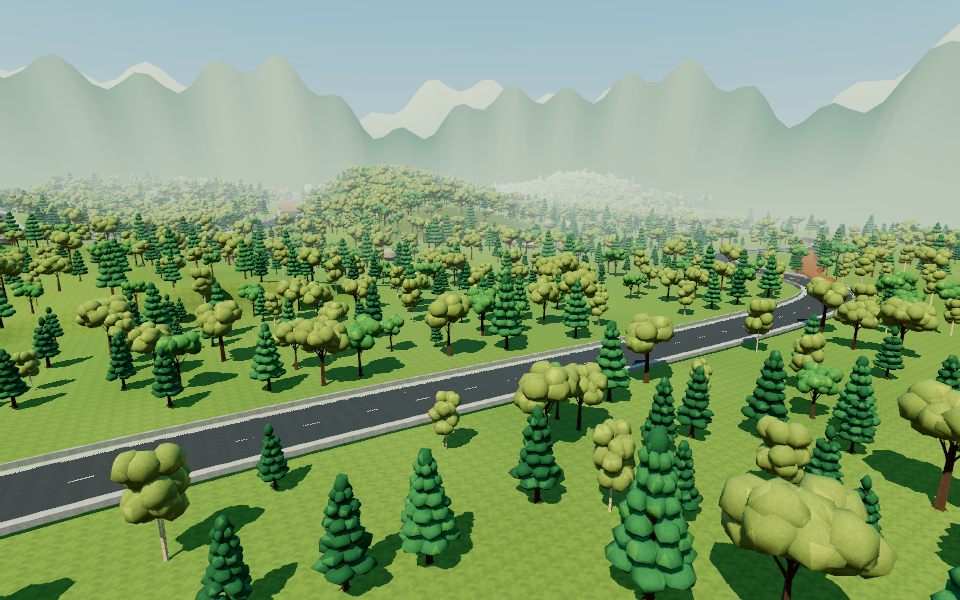
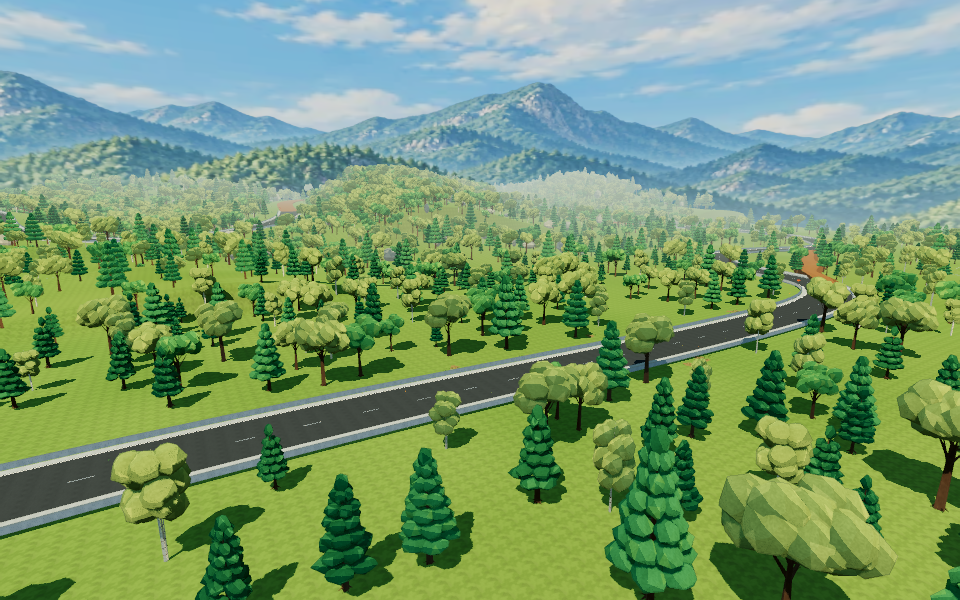
Add seamless painted forest horizon and map-specific anime shading

diff --git a/src/content/tracks/biggas-forest/biggas-city-horizon.js b/src/content/tracks/biggas-forest/biggas-city-horizon.js
@@ -1,33 +1,32 @@
 import * as T from 'three';
-import {mergeGeometries} from 'three/addons/utils/BufferGeometryUtils.js';
+import {MeshBasicNodeMaterial} from 'three/webgpu';
+import {uniform,texture,uv,vec2,vec3,mix,smoothstep} from 'three/tsl';
 
-// Two closed, static ridgelines. Baked vertex shading keeps the distant terrain
-// independent of city lights and shadow maps: one draw, no textures or updates.
+// One open cylinder replaces both modelled mountain rings. Mirrored sampling
+// makes u=0/1 AND the opposite join identical in colour and skyline alpha.
+// It follows the sky root: distant mountains have no racing-speed parallax.
 export function createBiggasHorizon(root,{mobile=false}={}){
-  const segments=mobile?128:256,parts=[],sun=new T.Vector3(-.55,.8,.35).normalize();
-  const haze=new T.Color(0xb6c6bd),stone=new T.Color(),normal=new T.Vector3();
-  for(let layer=0;layer<2;layer++){
-    const positions=[],indices=[],profiles=layer?[[1900,-90],[2350,110],[2750,1],[3150,160],[3500,-150]]:[[1050,-100],[1280,65],[1630,1],[1950,80],[2220,-120]];
-    for(let row=0;row<profiles.length;row++)for(let i=0;i<=segments;i++){
-      const a=i/segments*Math.PI*2,phase=layer*1.7;
-      const ridge=260+150*(.5+.5*Math.sin(a*7+phase))+115*(.5+.5*Math.sin(a*13+1.3+phase))+75*Math.sin(a*23+phase)**2;
-      const radius=profiles[row][0]+Math.sin(a*5+phase)*65+Math.sin(a*11)*28;
-      const y=row===2?ridge*(layer?1.4:1):profiles[row][1]+(row===1||row===3?Math.sin(a*9+phase)*28:0);
-      positions.push(Math.cos(a)*radius,y,Math.sin(a)*radius);
-      if(row&&i){const b=row*(segments+1)+i,p=b-segments-1;indices.push(p-1,p,b-1,p,b,b-1);}
-    }
-    const g=new T.BufferGeometry();g.setAttribute('position',new T.Float32BufferAttribute(positions,3));g.setIndex(indices);g.computeVertexNormals();
-    const colors=[],p=g.attributes.position,n=g.attributes.normal;
-    for(let i=0;i<p.count;i++){
-      const height=p.getY(i),shade=.75+.25*Math.max(0,normal.fromBufferAttribute(n,i).dot(sun));
-      stone.set(layer?0x8babb5:0x688b86).lerp(new T.Color(layer?0xc0d0d0:0xa1b5ad),T.MathUtils.smoothstep(height,300,650)).multiplyScalar(shade);
-      stone.lerp(haze,layer?.48:T.MathUtils.lerp(.72,.2,T.MathUtils.smoothstep(height,-50,350)));stone.toArray(colors,i*3);
-    }
-    g.setAttribute('color',new T.Float32BufferAttribute(colors,3));parts.push(g);
-  }
-  const geometry=mergeGeometries(parts);parts.forEach(g=>g.dispose());
-  const material=new T.MeshBasicMaterial({name:'Montañas lejanas · bruma',vertexColors:true,fog:false});
-  const mesh=new T.Mesh(geometry,material);mesh.name='Cordillera del horizonte · 360°';root.add(mesh);
-  const day=new T.Color(0xffffff),night=new T.Color(0x344f70);
-  return {mesh,triangles:geometry.index.count/3,update(blend){material.color.copy(day).lerp(night,blend);},dispose(){geometry.dispose();material.dispose();mesh.removeFromParent();}};
+  const geometry=new T.CylinderGeometry(3000,3000,2100,mobile?32:64,1,true);
+  const ready=uniform(0),night=uniform(0);let disposed=false;
+  const panorama=new T.TextureLoader().load(`${import.meta.env.BASE_URL}textures/biggas-forest/mountain-forest-panorama-v1.webp`,()=>{
+    if(disposed)panorama.dispose();else ready.value=1;
+  });
+  panorama.colorSpace=T.SRGBColorSpace;
+  panorama.wrapS=T.MirroredRepeatWrapping;panorama.wrapT=T.ClampToEdgeWrapping;
+  panorama.minFilter=T.LinearMipmapLinearFilter;panorama.magFilter=T.LinearFilter;
+  const painted=texture(panorama,vec2(uv().x.mul(2),uv().y));
+  const haze=uniform(new T.Color(0xb6c6bd)),nightHaze=uniform(new T.Color(0x172b43));
+  const day=mix(painted.rgb,haze,smoothstep(.04,.54,uv().y).oneMinus().mul(.75).add(.08));
+  const nocturnal=mix(painted.rgb.mul(vec3(.18,.28,.44)),nightHaze,.25);
+  const material=new MeshBasicNodeMaterial({name:'Forest · painted mountain panorama',side:T.BackSide,transparent:true,depthWrite:false,fog:false});
+  material.colorNode=mix(day,nocturnal,night);
+  // Fade the very bottom into the sky instead of exposing the open cylinder rim.
+  material.opacityNode=smoothstep(.04,.95,painted.a).mul(smoothstep(0,.12,uv().y)).mul(ready);
+  const mesh=new T.Mesh(geometry,material);mesh.name='Horizonte anime · cilindro continuo 360°';
+  mesh.position.y=150;mesh.rotation.y=.45;mesh.renderOrder=-800;mesh.frustumCulled=false;
+  root.add(mesh);
+  return {mesh,panorama,ready,triangles:geometry.index.count/3,
+    update(blend){night.value=blend;},
+    dispose(){disposed=true;panorama.dispose();geometry.dispose();material.dispose();mesh.removeFromParent();},
+  };
 }

diff --git a/src/content/tracks/biggas-forest/forest-anime-look.ts b/src/content/tracks/biggas-forest/forest-anime-look.ts
@@ -1,0 +1,81 @@
+import {DataTexture, NearestFilter, RGBAFormat, type Material, type Mesh, type Object3D, type MeshStandardMaterial} from 'three';
+import {MeshToonNodeMaterial, type Node, type NodeBuilder} from 'three/webgpu';
+import {diffuseColor, mix, normalView, positionViewDirection, smoothstep, uniform, vec3} from 'three/tsl';
+import {isMesh} from '@/render/scene-utils';
+
+/** Lighting is quantized before the painted maps, AO, shadows and emissive are composed. */
+export class ForestAnimeMaterial extends MeshToonNodeMaterial {
+  override setupLighting(builder: NodeBuilder): Node {
+    const lit = super.setupLighting(builder).toVar();
+    const albedo = diffuseColor.rgb.dot(vec3(.2126, .7152, .0722)).max(.025);
+    const illumination = lit.dot(vec3(.2126, .7152, .0722)).div(albedo);
+    const light = smoothstep(.5, 1.35, illumination);
+    const tint = mix(vec3(.85, .92, 1.07), vec3(1.035, 1.018, .96), light);
+    // A restrained painted edge light, scaled by existing illumination: no night glow.
+    const rim = smoothstep(.72, .96, normalView.dot(positionViewDirection).abs().oneMinus());
+    return lit.mul(tint).mul(rim.mul(.07).add(1));
+  }
+}
+
+const COPIED = [
+  'color', 'map', 'alphaMap', 'normalMap', 'normalScale', 'normalMapType', 'bumpMap', 'bumpScale',
+  'emissive', 'emissiveMap', 'emissiveIntensity', 'aoMap', 'aoMapIntensity', 'lightMap', 'lightMapIntensity',
+  'side', 'transparent', 'opacity', 'alphaTest', 'alphaToCoverage', 'depthWrite', 'depthTest',
+  'vertexColors', 'flatShading', 'fog', 'polygonOffset', 'polygonOffsetFactor', 'polygonOffsetUnits',
+  'lightsNode',
+] as const;
+
+export function createForestAnimeLook(scene: Object3D) {
+  const shades = new Uint8Array(32 * 4);
+  for (let i = 0; i < 32; i++) {
+    const shade = i < 15 ? 62 : i < 25 ? 158 : 255;
+    shades.set([shade, shade, shade, 255], i * 4);
+  }
+  const gradient = new DataTexture(shades, 32, 1, RGBAFormat);
+  gradient.name = 'Forest anime · three light bands';
+  gradient.minFilter = gradient.magFilter = NearestFilter;
+  gradient.generateMipmaps = false;
+  gradient.needsUpdate = true;
+  const bindings: {mesh: Mesh; source: Material | Material[]}[] = [];
+  const cache = new Map<MeshStandardMaterial, ForestAnimeMaterial>();
+  const warmth = uniform(.08);
+  let active = false, override: 'base' | 'jitter' | 'ps2' | null = null;
+  scene.traverse((object) => {if (isMesh(object)) bindings.push({mesh: object, source: object.material});});
+  function convert(source: Material): Material {
+    const standard = source as MeshStandardMaterial & {isNodeMaterial?: boolean};
+    // Water, foam, exhaust and transparent glass retain their authored animated shaders.
+    if (!standard.isMeshStandardMaterial || standard.isNodeMaterial || source.transparent || /water|foam/.test(source.userData.circuitSurface ?? '')) return source;
+    const cached = cache.get(standard);
+    if (cached) return cached;
+    const material = new ForestAnimeMaterial();
+    const target = material as unknown as Record<string, unknown>, origin = source as unknown as Record<string, unknown>;
+    for (const key of COPIED) if (key in origin) target[key] = origin[key];
+    material.gradientMap = gradient;
+    material.name = `Forest anime · ${source.name}`;
+    cache.set(standard, material);
+    return material;
+  }
+  return {
+    kind: 'forest-anime' as const, warmth,
+    get settings() {return {enabled: override !== 'base', bands: 3, rim: .07};},
+    setOverride(mode: typeof override) {override = mode;},
+    update({enabled = true}: {enabled?: boolean; reducedMotion?: boolean} = {}) {
+      const next = enabled && override !== 'base';
+      warmth.value = next ? .08 : 0;
+      if (next !== active) {
+        for (const binding of bindings) binding.mesh.material = next
+          ? Array.isArray(binding.source) ? binding.source.map(convert) : convert(binding.source)
+          : binding.source;
+        active = next;
+      }
+      for (const [source, material] of cache) material.emissiveIntensity = source.emissiveIntensity;
+    },
+    dispose() {
+      for (const binding of bindings) binding.mesh.material = binding.source;
+      for (const material of cache.values()) material.dispose();
+      gradient.dispose();
+    },
+  };
+}
+
+export type ForestLook = ReturnType<typeof createForestAnimeLook>;

diff --git a/src/content/tracks/biggas-forest/forest-anime-post.ts b/src/content/tracks/biggas-forest/forest-anime-post.ts
@@ -1,0 +1,62 @@
+import {Vector2} from 'three';
+import type {Node} from 'three/webgpu';
+import {float, max, mix, pass, smoothstep, uniform, vec2, vec3, vec4} from 'three/tsl';
+import {HeatField} from '@/fx/heat/heat-field';
+import {createLensWarp} from '@/fx/singularity/singularity-lens';
+import {acesFilmic, luma709, toSRGB} from '@/render/shaders/color';
+import {viewDepthSampler} from '@/render/shaders/depth';
+import {PostChain, RenderPipeline, type PipelineContext, type PipelineQuality} from '@/render/post/render-pipeline';
+
+/** Forest-only anime finish: clean colour and restrained ink on nearby silhouettes.
+ * Four neighbour depth reads in the existing output pass, no extra scene/normal pass.
+ */
+export class ForestAnimePipeline extends RenderPipeline {
+  readonly look = 'forest-anime';
+  private readonly exposure;
+  private readonly near;
+  private readonly far;
+  private readonly aspect;
+  private readonly pixel = uniform(new Vector2(1, 1));
+  private readonly drawingSize = new Vector2();
+
+  constructor(context: PipelineContext, quality: PipelineQuality) {
+    super(context, quality);
+    this.exposure = uniform(context.renderer.toneMappingExposure);
+    this.near = uniform(context.camera.near);
+    this.far = uniform(context.camera.far);
+    this.aspect = uniform(context.camera.aspect);
+  }
+  render(): void {
+    this.exposure.value = this.renderer.toneMappingExposure;
+    this.near.value = this.camera.near;
+    this.far.value = this.camera.far;
+    this.aspect.value = this.camera.aspect;
+    this.renderer.getDrawingBufferSize(this.drawingSize);
+    this.pixel.value.set(1 / this.drawingSize.x, 1 / this.drawingSize.y);
+    this.chain.render();
+  }
+  protected override qualityKey({samples}: PipelineQuality): string {return String(samples);}
+  protected createChain({samples}: PipelineQuality): PostChain {
+    const {renderer, scene, camera, lens, exposure, near, far, aspect, pixel} = this;
+    const scenePass = pass(scene, camera, {samples});
+    const source = scenePass.getTextureNode(), depth = scenePass.getTextureNode('depth');
+    const viewDepth = viewDepthSampler(depth, near, far);
+    const heat = new HeatField(renderer, camera, viewDepth);
+    const warp = lens ? createLensWarp(lens, {uv: heat.uv, aspect, viewDepth, far}) : null;
+    const sampleUV = warp?.uv ?? heat.uv;
+    const hdr = source.sample(sampleUV).rgb;
+    const radiance = warp ? hdr.mul(vec3(1).sub(warp.dark)).add(warp.emission) : hdr;
+    const mapped = toSRGB(acesFilmic(exposure, radiance)).toVar();
+    const luma = luma709(mapped);
+    const grade = mix(vec3(luma), mapped, 1.08).sub(.5).mul(1.035).add(.5);
+    // One-sided ink stays on the foreground surface, never on the sky/panorama.
+    const center = viewDepth(sampleUV);
+    let edge: Node = float(0);
+    for (const offset of [vec2(pixel.x, 0), vec2(pixel.x.negate(), 0), vec2(0, pixel.y), vec2(0, pixel.y.negate())]) {
+      edge = max(edge, viewDepth(sampleUV.add(offset)).sub(center).div(center.max(2)));
+    }
+    const ink = smoothstep(.025, .10, edge).mul(smoothstep(90, 260, center).oneMinus()).mul(.20);
+    const color = mix(grade, grade.mul(vec3(.32, .43, .48)), ink).clamp();
+    return new PostChain(renderer, scenePass, heat, vec4(color, 1));
+  }
+}

diff --git a/src/content/tracks/biggas-forest/biggas-city-look.js b/src/content/tracks/biggas-forest/biggas-city-look.js
@@ -1,44 +1,3 @@
-import {Vector2,MeshStandardMaterial,MeshPhysicalMaterial} from 'three';
-import {MeshStandardNodeMaterial,MeshPhysicalNodeMaterial} from 'three/webgpu';
-import {uniform,vec4,mix} from 'three/tsl';
-
-// Adapted from Desert Valley's desert-look/post on origin/main (82cf702).
-// Native PBR with the same 368px grid, blended gently for the city's fine
-// facade geometry. The HUD stays at native resolution.
-function snapProjection(material,clip){
-  const projected=clip.toVar(),grid=material.cityGrid;
-  const snapped=projected.xy.div(projected.w).mul(grid).round().div(grid).mul(projected.w);
-  return vec4(mix(projected.xy,snapped,material.cityJitter),projected.zw);
-}
-class CityJitterMaterial extends MeshStandardNodeMaterial{
-  setupModelViewProjection(builder){return snapProjection(this,super.setupModelViewProjection(builder));}
-}
-class CityJitterPhysicalMaterial extends MeshPhysicalNodeMaterial{
-  setupModelViewProjection(builder){return snapProjection(this,super.setupModelViewProjection(builder));}
-}
-export function createBiggasCityLook(scene,renderer){
-  const warmth=uniform(.18),jitter=uniform(0),grid=uniform(new Vector2(184,103.5)),size=new Vector2(),bindings=[],cache=new Map();let active=false,override=null;
-  scene.traverse(mesh=>{if(mesh.isMesh)bindings.push({mesh,source:mesh.material});});
-  function convert(source){
-    // Preserve the continuous animated river/veil and custom engine shaders.
-    if(source.isNodeMaterial||!source.isMeshStandardMaterial||source.userData.cityStableProjection||/water|foam/.test(source.userData.circuitSurface??''))return source;
-    if(cache.has(source))return cache.get(source);
-    const physical=source.isMeshPhysicalMaterial,m=physical?new CityJitterPhysicalMaterial():new CityJitterMaterial();
-    (physical?MeshPhysicalMaterial:MeshStandardMaterial).prototype.copy.call(m,source);
-    m.name=`PSX · ${source.name}`;m.cityGrid=grid;m.cityJitter=jitter;
-    // Keep the city's bounded light groups, including moving vehicle lights.
-    m.lightsNode=source.lightsNode??null;m.color=source.color;m.emissive=source.emissive;
-    cache.set(source,m);return m;
-  }
-  return {warmth,jitter,grid,
-    get settings(){return {enabled:override!=='base',warmth:.18,jitter:.22,resolution:368};},
-    setOverride(mode){override=mode;},
-    update({enabled=true,reducedMotion=false}={}){
-      enabled=enabled&&override!=='base';const next=enabled;warmth.value=enabled?.18:0;jitter.value=enabled&&!reducedMotion?.22:0;
-      renderer.getDrawingBufferSize(size);grid.value.set(184,184*size.y/Math.max(1,size.x));
-      if(next!==active){for(const b of bindings)b.mesh.material=next?(Array.isArray(b.source)?b.source.map(convert):convert(b.source)):b.source;active=next;}
-      for(const [source,material] of cache)material.emissiveIntensity=source.emissiveIntensity;
-    },
-    dispose(){for(const b of bindings)b.mesh.material=b.source;for(const material of cache.values())material.dispose();},
-  };
-}
+// Keep the original entry point for track previews and profiling scripts.
+import {createForestAnimeLook} from './forest-anime-look.ts';
+export function createBiggasCityLook(scene){return createForestAnimeLook(scene);}

diff --git a/src/render/flight-graphics.ts b/src/render/flight-graphics.ts
@@ -243,7 +243,8 @@ export class FlightGraphics implements Disposable {
 
   /** The pipeline of this frame's look at the current quality (compiled once per look and quality). */
   private pipelineFor(comic: boolean): RenderPipeline {
-    const lookId: LookId = this.naturalDesert && !comic ? 'natural' : 'comic';
+    const forest = this.look && 'kind' in this.look && this.look.kind === 'forest-anime';
+    const lookId: LookId = comic ? 'comic' : forest ? 'forest-anime' : this.naturalDesert ? 'natural' : 'comic';
     let pipeline = this.pipelines.get(lookId);
     if (!pipeline) {
       const {renderer, scene, camera, lens} = this;
@@ -251,7 +252,7 @@ export class FlightGraphics implements Disposable {
       this.pipelines.set(lookId, pipeline);
     }
     pipeline.setQuality(this.quality);
-    this.stats.glowSamples = lookId === 'natural' ? 0 : this.quality.glowSamples;
+    this.stats.glowSamples = lookId !== 'comic' ? 0 : this.quality.glowSamples;
     return pipeline;
   }
 }

diff --git a/src/content/tracks/biggas-forest/biggas-city-sky.js b/src/content/tracks/biggas-forest/biggas-city-sky.js
@@ -7,8 +7,8 @@ import {uniform,texture,uv,positionLocal,vec2,vec3,mix,smoothstep} from 'three/t
 // both joins continuous; haze and a zenith fade remove the image's top/bottom
 // edges. The complete dome follows the camera, including jump-height views.
 export function createBiggasCitySky(scene,{mobile=false}={}){
-  const root=new THREE.Group();root.name='Cielo pintado de Biggas City';scene.add(root);
-  const mountains=createBiggasHorizon(scene,{mobile});
+  const root=new THREE.Group();root.name='Cielo pintado de Biggas Forest';scene.add(root);
+  const mountains=createBiggasHorizon(root,{mobile});
   const radius=4400,geometry=new THREE.SphereGeometry(radius,32,20);
   const ready=uniform(0),nightBlend=uniform(0);let disposed=false,blend=0;
   const panorama=new THREE.TextureLoader().load(`${import.meta.env.BASE_URL}textures/sky/desert-cloud-panorama-v01.webp`,()=>{

diff --git a/src/content/tracks/biggas-forest/biggas-city-look.d.ts b/src/content/tracks/biggas-forest/biggas-city-look.d.ts
@@ -1,10 +1,5 @@
 import type {Object3D} from 'three';
-import type {Renderer,UniformNode} from 'three/webgpu';
-export interface ForestLook {
-  readonly warmth:UniformNode<number>;
-  readonly settings: {enabled:boolean;warmth:number;jitter:number;resolution:number};
-  setOverride(mode:'base'|'jitter'|'ps2'|null):void;
-  update(options?:{enabled?:boolean;reducedMotion?:boolean}):void;
-  dispose():void;
-}
-export function createBiggasCityLook(scene:Object3D,renderer:Pick<Renderer,'getDrawingBufferSize'>):ForestLook;
+import type {Renderer} from 'three/webgpu';
+import type {ForestLook} from './forest-anime-look';
+export type {ForestLook} from './forest-anime-look';
+export function createBiggasCityLook(scene:Object3D,renderer?:Pick<Renderer,'getDrawingBufferSize'>):ForestLook;

diff --git a/src/render/post/pipelines.ts b/src/render/post/pipelines.ts
@@ -1,3 +1,4 @@
+import {ForestAnimePipeline} from '@/content/tracks/biggas-forest/forest-anime-post';
 import {ComicPipeline} from './comic-post';
 import {NaturalPipeline} from './desert-post';
 import type {LookId, PipelineContext, PipelineQuality, RenderPipeline} from './render-pipeline';
@@ -7,6 +8,7 @@ export type PipelineFactory = (context: PipelineContext, quality: PipelineQualit
 /** Every look by id. A new look adds its id to `LookId` and its factory here. */
 export const PIPELINES: Readonly<Record<LookId, PipelineFactory>> = {
   comic: (context, quality) => new ComicPipeline(context, quality),
+  'forest-anime': (context, quality) => new ForestAnimePipeline(context, quality),
   natural: (context, quality) => new NaturalPipeline(context, quality),
 };
 

diff --git a/src/render/post/render-pipeline.ts b/src/render/post/render-pipeline.ts
@@ -6,7 +6,7 @@ import type {HeatField} from '@/fx/heat/heat-field';
 import type {LensUniforms} from '@/fx/singularity/singularity-lens';
 
 /** Post-processing looks. Add an id here and a factory in pipelines.ts to plug in a new one. */
-export type LookId = 'comic' | 'natural';
+export type LookId = 'comic' | 'natural' | 'forest-anime';
 
 export type {HeatField} from '@/fx/heat/heat-field';
 export type {LensUniforms} from '@/fx/singularity/singularity-lens';

diff --git a/src/game/race-session.ts b/src/game/race-session.ts
@@ -371,6 +371,7 @@ export class RaceSession implements Disposable {
         return session.phase;
       },
       get look() {
+        if (!session.comic && session.trackConfig.id === 'biggas-city') return 'forest-anime';
         return session.naturalLook && !session.comic ? 'sunlit' : 'comic';
       },
       get state() {

diff --git a/public/textures/biggas-forest/README.md b/public/textures/biggas-forest/README.md
@@ -1,0 +1,7 @@
+# Forest horizon
+
+`mountain-forest-panorama-v1.webp` is an original AI-generated panorama made with the built-in image generation tool. The source has a transparent skyline; WebP preserves alpha. It is mapped twice with mirrored horizontal wrapping so both cylinder joins are continuous, including the alpha silhouette. Day/night tint and lower-edge haze are shader uniforms.
+
+## Generation prompt
+
+Use case: stylized-concept. Asset type: production game horizon texture, one very wide horizontal 3:1 landscape strip. Create an exquisite hand-painted anime background of distant forest-covered mountains for a forest hover racing game. Mountains and dense woodland ONLY, with genuinely transparent background above the irregular mountain skyline, no sky paint. Continuous sweeping forested ridges: layered blue-teal distant mountains, soft moss-green middle slopes, sage and deep green conifer and deciduous forest canopies covering the bottom edge. Subtle rugged rock outcrops, soft atmospheric depth, tranquil sunlit daylight, clean large painterly shapes and delicate restrained cel shading, no pixel art, no low-poly facets. Broad panoramic vista, distant eye-level view, no close foreground objects. All terrain reaches the bottom edge continuously. Mountain peaks vary organically across the strip, with highest peaks around upper third, lower forest completely filling bottom third. Left and right edges must wrap seamlessly horizontally: same skyline height, terrain shapes, colors and illumination at opposite edges, no framing, no border, no blank side margins. A seamless horizontal game texture, not a presentation/mockup. No city, architecture, roads, trains, text, lettering, logos, people, sun, clouds, stars, water or waterfall. Transparent sky above mountains; preserve anti-aliased mountain silhouette and fine treetop edges. Please save the generated image asset and return its local file path.

diff --git a/public/models/biggas-city/INTEGRATION.md b/public/models/biggas-city/INTEGRATION.md
@@ -35,6 +35,22 @@ main's repository convention.
 The original import and previous Blender refinement notes below describe source
 assets, rather than the current scene composition.
 
+## Anime horizon and materials
+
+The forest now uses its own `ForestAnimeMaterial` and `ForestAnimePipeline`.
+Three lighting bands preserve the shared painted textures, vertex AO, shadows
+and emissive controls. A restrained rim light and foreground depth contours
+run without extra scene passes. Projection is stable; the previous PSX jitter
+is removed. Water, foam, glass and exhaust retain their animated materials.
+The comic toggle still works; other tracks retain their existing looks.
+
+One camera-following open cylinder replaces both distant mountain meshes:
+128 triangles on desktop / 64 on mobile, one draw, no shadows or colliders.
+The generated 2172×724 alpha WebP is 480 KiB. Mirrored horizontal sampling
+joins both ends continuously, including the skyline mask. Lower-edge haze
+and night tint blend the panorama into the existing sky. Asset provenance
+and the generation prompt are in `public/textures/biggas-forest/README.md`.
+
 # Biggas City 039 v02
 
 Imported from the supplied `Biggas_City_039_v02_Game_Package.zip`. The final
